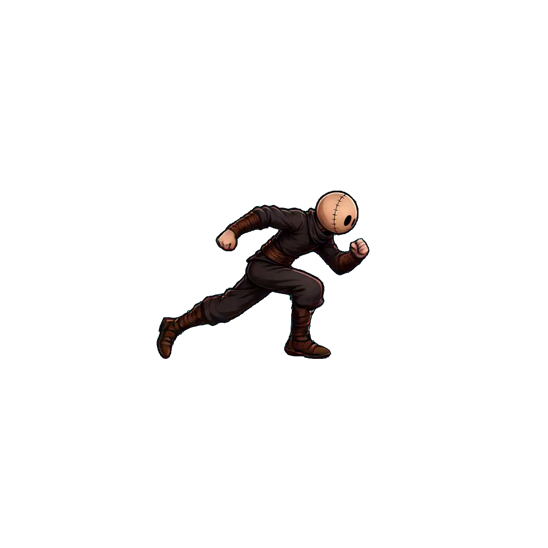
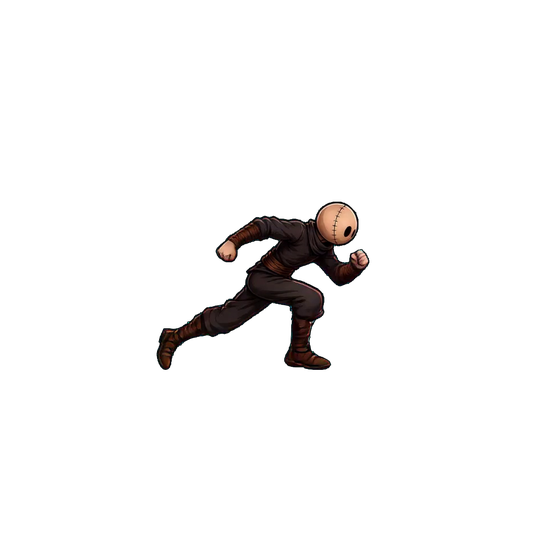
asset: stabilize player run frames

Changed region(s): [[0.2792, 0.3412, 0.6825, 0.6825]]

diff --git a/docs/art/player_animation_normalization.md b/docs/art/player_animation_normalization.md
@@ -24,6 +24,16 @@ The idle sheet remains the calibration baseline. Run poses are naturally more
 crouched, so they were not enlarged merely to force every silhouette to the same
 bounding-box height.
 
+The run cycle retains the hand-selected playback order
+`001, 002, 003, 004, 005, 006, 012, 020, 007, 018, 008`. Each active frame is
+registered to runtime ground row 369 so the foot line no longer floats by as
+much as 12 source pixels between poses. Frame `005` uses one identity-matched
+bridge pose to replace the unusually compressed silhouette between the long
+strides in `004` and `006`; the other ten frames retain their original pixels
+apart from transparent-canvas translation. The exact pre-cleanup runtime files
+and their playback order are preserved under
+`Normalized_V2/run/old_run`.
+
 ## Scale normalization
 
 The old scene compensated for differently authored attack sheets by changing the

diff --git a/Assets/Threadborne/Player/Normalized_V2/run/old_run/README.md b/Assets/Threadborne/Player/Normalized_V2/run/old_run/README.md
@@ -1,0 +1,20 @@
+# Archived run animation
+
+This folder preserves the exact runtime PNGs and playback order that were active
+before the July 2026 run cleanup. The numbered `frame_00` through `frame_10`
+prefixes are the original Godot playback order:
+
+1. `run_001`
+2. `run_002`
+3. `run_003`
+4. `run_004`
+5. `run_005`
+6. `run_006`
+7. `run_012`
+8. `run_020`
+9. `run_007`
+10. `run_018`
+11. `run_008`
+
+These files are intentionally not referenced by the player scene. They are a
+lossless rollback copy of the hand-selected and hand-adjusted animation.
